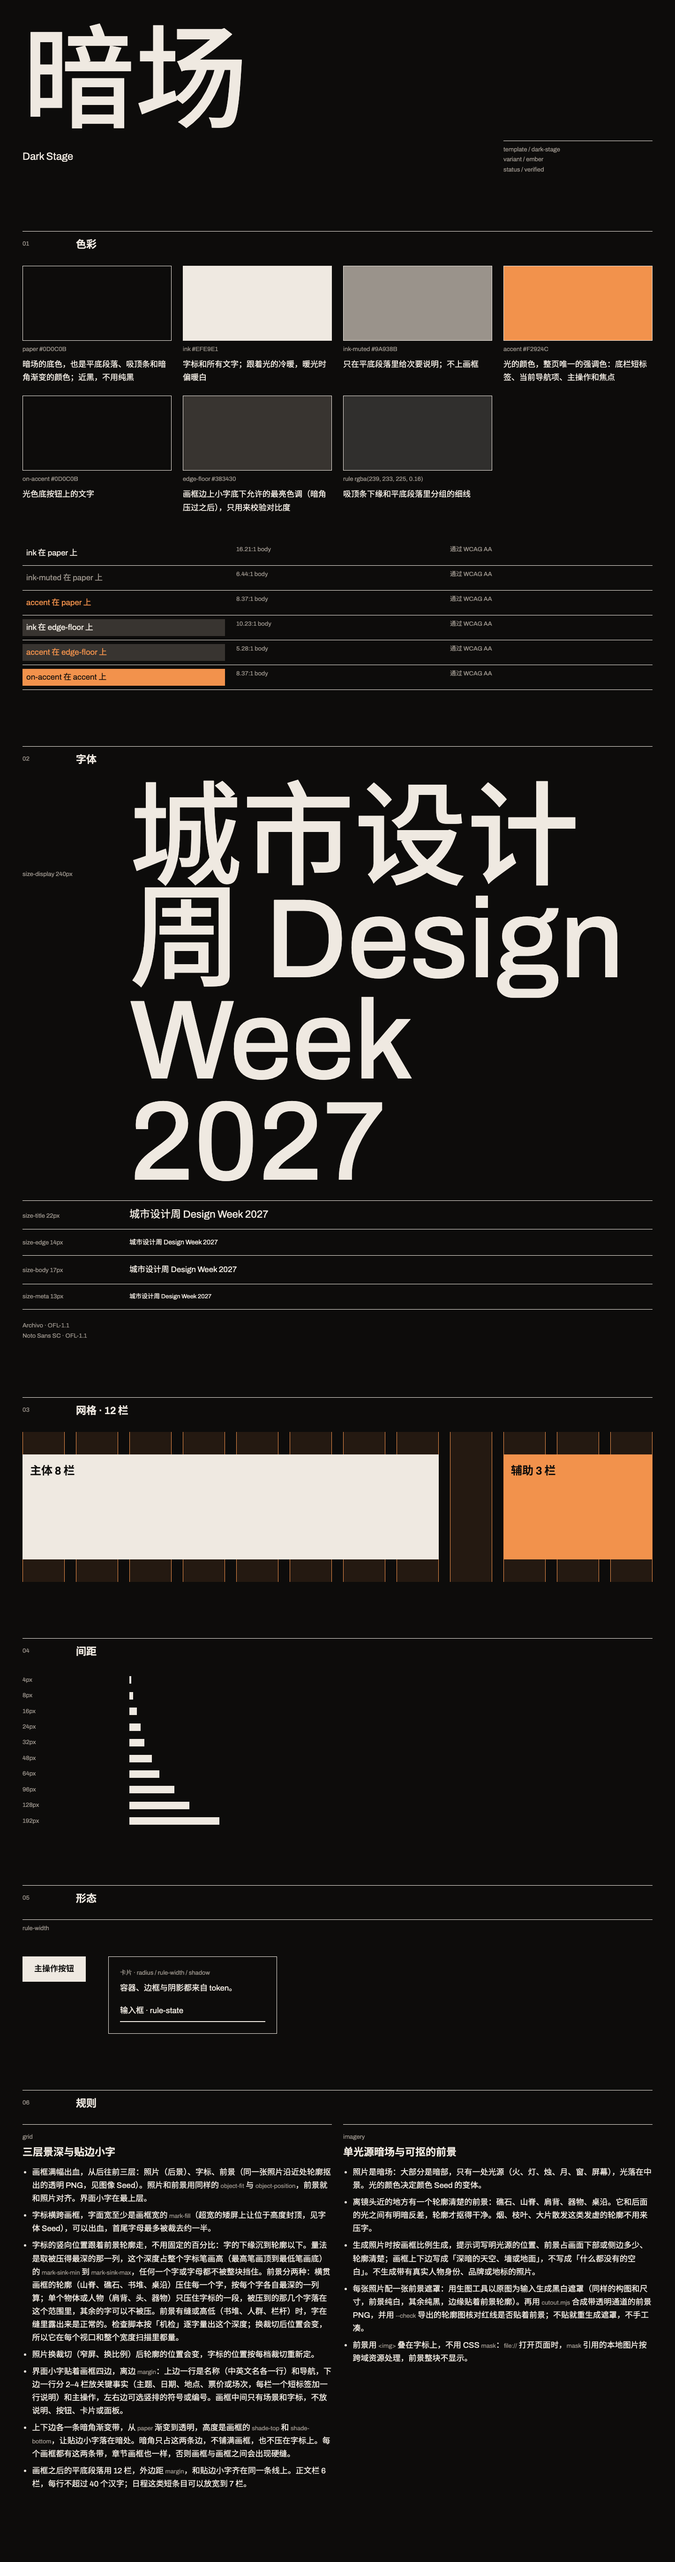
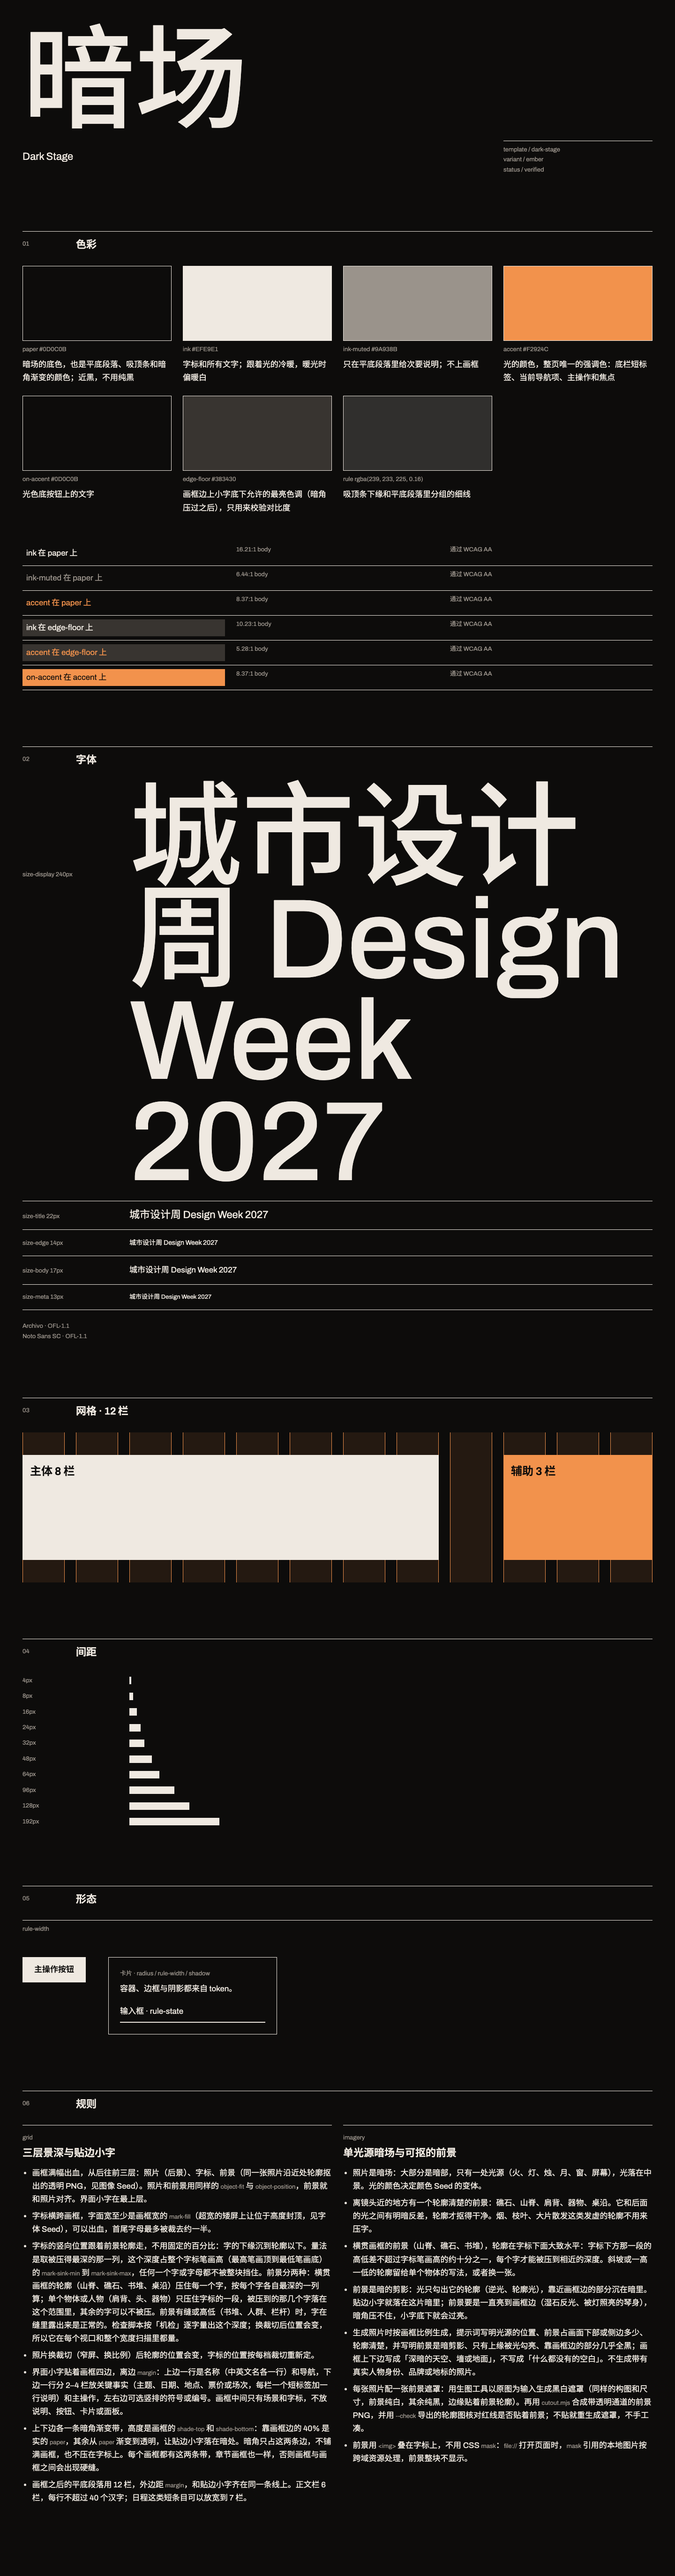
fix(musekit): dark-stage foregrounds are dark silhouettes and the vignette is solid at the edge
The new sink and backdrop checks failed the accepted proto pages because their
foregrounds stayed lit down to the frame edge. The photo rule now asks for a
dark silhouette rimmed only on its top edge, a roughly level contour under the
wordmark for foregrounds that span the frame, and the vignette keeps 40% solid
paper next to the frame edge before fading out.

diff --git a/plugins/musekit/skills/musepool/library/seeds/grid/stage-layers.md b/plugins/musekit/skills/musepool/library/seeds/grid/stage-layers.md
@@ -67,7 +67,7 @@ checks:
 - 字标的竖向位置跟着前景轮廓走，不用固定的百分比：字的下缘沉到轮廓以下。量法是取被压得最深的那一列，这个深度占整个字标笔画高（最高笔画顶到最低笔画底）的 `mark-sink-min` 到 `mark-sink-max`，任何一个字或字母都不被整块挡住。前景分两种：横贯画框的轮廓（山脊、礁石、书堆、桌沿）压住每一个字，按每个字各自最深的一列算；单个物体或人物（肩背、头、器物）只压住字标的一段，被压到的那几个字落在这个范围里，其余的字可以不被压。前景有缝或高低（书堆、人群、栏杆）时，字在缝里露出来是正常的。检查脚本按「机检」逐字量出这个深度；换裁切后位置会变，所以它在每个视口和整个宽度扫描里都量。
 - 照片换裁切（窄屏、换比例）后轮廓的位置会变，字标的位置按每档裁切重新定。
 - 界面小字贴着画框四边，离边 `margin`：上边一行是名称（中英文名各一行）和导航，下边一行分 2–4 栏放关键事实（主题、日期、地点、票价或场次，每栏一个短标签加一行说明）和主操作，左右边可选竖排的符号或编号。画框中间只有场景和字标，不放说明、按钮、卡片或面板。
-- 上下边各一条暗角渐变带，从 `paper` 渐变到透明，高度是画框的 `shade-top` 和 `shade-bottom`，让贴边小字落在暗处。暗角只占这两条边，不铺满画框，也不压在字标上。每个画框都有这两条带，章节画框也一样，否则画框与画框之间会出现硬缝。
+- 上下边各一条暗角渐变带，高度是画框的 `shade-top` 和 `shade-bottom`：靠画框边的 40% 是实的 `paper`，其余从 `paper` 渐变到透明，让贴边小字落在暗处。暗角只占这两条边，不铺满画框，也不压在字标上。每个画框都有这两条带，章节画框也一样，否则画框与画框之间会出现硬缝。
 - 画框之后的平底段落用 12 栏，外边距 `margin`，和贴边小字齐在同一条线上。正文栏 6 栏，每行不超过 40 个汉字；日程这类短条目可以放宽到 7 栏。
 
 ## 适用与边界

diff --git a/plugins/musekit/skills/musepool/library/seeds/imagery/lit-depth-photo.md b/plugins/musekit/skills/musepool/library/seeds/imagery/lit-depth-photo.md
@@ -16,7 +16,9 @@ tools: [assets/cutout.mjs]
 
 - 照片是暗场：大部分是暗部，只有一处光源（火、灯、烛、月、窗、屏幕），光落在中景。光的颜色决定颜色 Seed 的变体。
 - 离镜头近的地方有一个轮廓清楚的前景：礁石、山脊、肩背、器物、桌沿。它和后面的光之间有明暗反差，轮廓才抠得干净。烟、枝叶、大片散发这类发虚的轮廓不用来压字。
-- 生成照片时按画框比例生成，提示词写明光源的位置、前景占画面下部或侧边多少、轮廓清楚；画框上下边写成「深暗的天空、墙或地面」，不写成「什么都没有的空白」。不生成带有真实人物身份、品牌或地标的照片。
+- 横贯画框的前景（山脊、礁石、书堆），轮廓在字标下面大致水平：字标下方那一段的高低差不超过字标笔画高的约十分之一，每个字才能被压到相近的深度。斜坡或一高一低的轮廓留给单个物体的写法，或者换一张。
+- 前景是暗的剪影：光只勾出它的轮廓（逆光、轮廓光），靠近画框边的部分沉在暗里。贴边小字就落在这片暗里；前景要是一直亮到画框边（湿石反光、被灯照亮的琴身），暗角压不住，小字底下就会过亮。
+- 生成照片时按画框比例生成，提示词写明光源的位置、前景占画面下部或侧边多少、轮廓清楚，并写明前景是暗剪影、只有上缘被光勾亮、靠画框边的部分几乎全黑；画框上下边写成「深暗的天空、墙或地面」，不写成「什么都没有的空白」。不生成带有真实人物身份、品牌或地标的照片。
 - 每张照片配一张前景遮罩：用生图工具以原图为输入生成黑白遮罩（同样的构图和尺寸，前景纯白，其余纯黑，边缘贴着前景轮廓）。再用 `cutout.mjs` 合成带透明通道的前景 PNG，并用 `--check` 导出的轮廓图核对红线是否贴着前景；不贴就重生成遮罩，不手工凑。
 - 前景用 `<img>` 叠在字标上，不用 CSS `mask`：`file://` 打开页面时，`mask` 引用的本地图片按跨域资源处理，前景整块不显示。
 

diff --git a/plugins/musekit/skills/musepool/library/templates/dark-stage.md b/plugins/musekit/skills/musepool/library/templates/dark-stage.md
@@ -93,7 +93,7 @@ exemplars: []
 - 字标压在所有东西上面（没有前景层），退化成一张照片上叠一个大标题。
 - 前景挡掉整个字或大半个字标；横贯画框的前景只压到一两个字；或者名称只出现在字标里，没有另以真实文字出现。
 - 用满幅暗色遮罩压暗照片凑对比度；暗角铺满整个画框。
-- 小字落在光源或高光上。
+- 小字落在光源或高光上；前景一直亮到画框边，暗角压不住。
 - 画面里有两种以上光色，或者界面另加一种彩色。
 - 画框中间放卡片、玻璃面板或按钮组。
 - 前景轮廓发虚还硬抠，边缘出现白边或锯齿；遮罩没对齐，前景出现重影。
